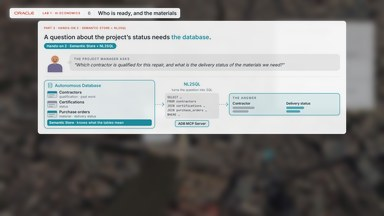
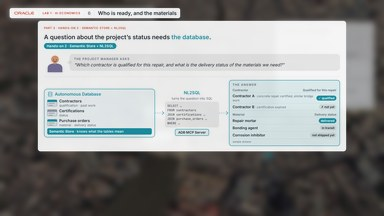
Lab 1 pages 6 and 7 print a sample answer instead of placeholder bars
Contractor qualification and material delivery status (page 6), the repair history at the
spot (page 7); sample rows with generic names, no prices or dates, marked "sample answer".

Changed region(s): [[0.0938, 0.3611, 0.9062, 0.7222]]

diff --git a/src/overlay/concepts/lab1/Lab1Data.tsx b/src/overlay/concepts/lab1/Lab1Data.tsx
@@ -351,6 +351,27 @@ export interface L1ContractorsProps {
 }
 
 /** 1.5 · The project manager asks the database: tables, the Semantic Store that knows what they mean, NL2SQL, ADB MCP Server, a placeholder answer table. */
+/** the answer the assistant prints for the project manager (sample rows: names and items stay generic) */
+const ANSWER: { head: string; col: string; rows: [string, string, boolean, string][] }[] = [
+  {
+    head: 'Contractor',
+    col: 'Qualified for this repair',
+    rows: [
+      ['Contractor A', '✓ qualified', true, 'concrete repair certified, similar bridge work'],
+      ['Contractor B', '✗ not yet', false, 'certification expired'],
+    ],
+  },
+  {
+    head: 'Material',
+    col: 'Delivery status',
+    rows: [
+      ['Repair mortar', 'delivered', true, ''],
+      ['Bonding agent', 'in transit', false, ''],
+      ['Corrosion inhibitor', 'not shipped yet', false, ''],
+    ],
+  },
+];
+
 export function L1Contractors({ kicker, message, notebook }: L1ContractorsProps) {
   return (
     <WidePanel kicker={kicker} message={message} notebook={notebook} testId="l1-contractors">
@@ -395,14 +416,25 @@ export function L1Contractors({ kicker, message, notebook }: L1ContractorsProps)
         <Arrow w={50} delay={3.4} />
         <motion.div data-answer="table" {...rise(3.4)} style={{ borderRadius: 14, border: '2px solid var(--teal)', background: TEAL_TINT, padding: '12px 16px' }}>
           <div style={{ fontSize: 15, fontWeight: 700, letterSpacing: 2, color: GREY, textTransform: 'uppercase', marginBottom: 8 }}>The answer</div>
-          <div style={{ display: 'grid', gridTemplateColumns: '1fr 1fr', gap: '6px 16px', fontSize: 17, fontWeight: 700, color: 'var(--ink)' }}>
-            <span>Contractor</span>
-            <span>Delivery status</span>
-            {[0, 1].flatMap((r) => [
-              <motion.span key={`a${r}`} data-bar initial={{ width: 0 }} animate={{ width: r ? 80 : 110 }} transition={{ delay: 3.8 + r * 0.2, duration: 0.5, ease: EASE }} style={{ height: 12, borderRadius: 6, background: G_MID, opacity: 0.7, alignSelf: 'center' }} />,
-              <motion.span key={`b${r}`} data-bar initial={{ width: 0 }} animate={{ width: r ? 70 : 90 }} transition={{ delay: 3.9 + r * 0.2, duration: 0.5, ease: EASE }} style={{ height: 12, borderRadius: 6, background: 'var(--teal)', opacity: 0.7, alignSelf: 'center' }} />,
-            ])}
-          </div>
+          {/* a sample answer (owner, 29 Oct: print an answer, not a skeleton); no real company names, prices or dates */}
+          {ANSWER.map((group, g) => (
+            <div key={group.head} style={{ marginTop: g ? 10 : 0 }}>
+              <div style={{ display: 'grid', gridTemplateColumns: '1fr auto', fontSize: 15, fontWeight: 700, color: 'var(--ink-dim)', borderBottom: '1px solid var(--line)', paddingBottom: 3 }}>
+                <span>{group.head}</span>
+                <span>{group.col}</span>
+              </div>
+              {group.rows.map(([name, status, ok, why], r) => (
+                <motion.div key={name} data-row={name} initial={{ opacity: 0, x: -8 }} animate={{ opacity: 1, x: 0 }} transition={{ delay: 3.8 + (g * 2 + r) * 0.18, duration: 0.45, ease: EASE }} style={{ display: 'grid', gridTemplateColumns: '1fr auto', alignItems: 'center', gap: 10, padding: '5px 0', borderBottom: '1px solid var(--line)' }}>
+                  <span style={{ fontSize: 18, color: 'var(--ink)' }}>
+                    <b>{name}</b>
+                    {why && <span style={{ fontSize: 15, color: 'var(--ink-dim)' }}> · {why}</span>}
+                  </span>
+                  <span style={{ fontSize: 15, fontWeight: 700, padding: '3px 10px', borderRadius: 999, color: ok ? '#fff' : 'var(--ink)', background: ok ? 'var(--teal)' : 'rgba(127,127,127,0.18)' }}>{status}</span>
+                </motion.div>
+              ))}
+            </div>
+          ))}
+          <div style={{ marginTop: 6, fontSize: 13, color: 'var(--ink-dim)' }}>sample answer</div>
         </motion.div>
       </div>
     </WidePanel>

diff --git a/src/overlay/concepts/lab1/Lab1Models.tsx b/src/overlay/concepts/lab1/Lab1Models.tsx
@@ -105,6 +105,9 @@ export const SITE_PHOTO_FOLLOW = 'What is the repair history at this location?';
 export const SITE_PHOTO_CAUTION = 'A photo alone cannot diagnose the cause, assess the load capacity or approve reopening the bridge. The responsible engineer must check.';
 export const SITE_PHOTO_NOTE = 'Every request still goes to the same model. The next exercise changes that.';
 
+/** the repair history the assistant prints for that spot (sample entries, oldest first) */
+const HISTORY = ['Patch repair of spalled concrete at this spot', 'Cracks sealed, surface coated', 'Last inspection: rust staining noted, repair recommended'];
+
 export function L1SitePhoto({ kicker, message, notebook }: Lab1Props) {
   return (
     <WidePanel kicker={kicker} message={message} notebook={notebook} testId="l1-site-photo">
@@ -157,12 +160,14 @@ export function L1SitePhoto({ kicker, message, notebook }: Lab1Props) {
               <LineIcon name="database" size={28} />
               FROM THE DATABASE
             </div>
-            {[0.82, 0.64, 0.74].map((w, i) => (
-              <div key={i} style={{ display: 'flex', alignItems: 'center', gap: 12, padding: '6px 0' }}>
-                <i style={{ width: 14, height: 14, borderRadius: '50%', background: 'var(--teal)', flex: 'none' }} />
-                <motion.i initial={{ width: 0 }} animate={{ width: `${w * 100}%` }} transition={{ delay: 3.4 + i * 0.2, duration: 0.6, ease: EASE }} style={{ height: 14, borderRadius: 7, background: GREY_FILL, display: 'block' }} />
-              </div>
+            {/* a sample history (owner, 29 Oct: print an answer, not a skeleton); no dates or names invented */}
+            {HISTORY.map((h, i) => (
+              <motion.div key={h} data-history-item={h} initial={{ opacity: 0, x: -8 }} animate={{ opacity: 1, x: 0 }} transition={{ delay: 3.4 + i * 0.2, duration: 0.5, ease: EASE }} style={{ display: 'flex', alignItems: 'center', gap: 12, padding: '5px 0', fontSize: 19, color: 'var(--ink)' }}>
+                <i style={{ width: 12, height: 12, borderRadius: '50%', background: 'var(--teal)', flex: 'none' }} />
+                {h}
+              </motion.div>
             ))}
+            <div style={{ fontSize: 13, color: 'var(--ink-dim)', marginTop: 4 }}>sample answer</div>
           </motion.div>
         </Window>
       </div>

diff --git a/tests/overlay/Lab1Data.test.tsx b/tests/overlay/Lab1Data.test.tsx
@@ -27,13 +27,15 @@ test('L1Specs: the engineer’s question, three steps, three sourced parts, the 
   noRed(c);
 });
 
-test('L1Contractors: tables, Semantic Store, NL2SQL, ADB MCP Server, placeholder answer, no invented specifics', () => {
+test('L1Contractors: tables, Semantic Store, NL2SQL, ADB MCP Server, a printed sample answer, no invented specifics', () => {
   const c = render(<L1Contractors kicker="k" message="m" />).container;
   expect(c.textContent).toContain('Which contractor is qualified for this repair, and what is the delivery status of the materials we need?');
   expect(attrs(c, 'data-table')).toEqual(['Contractors', 'Certifications', 'Purchase orders']);
   for (const w of ['Autonomous Database', 'Semantic Store', 'NL2SQL', 'ADB MCP Server', 'SELECT', 'JOIN certifications'])
     expect(c.textContent).toContain(w);
-  expect(c.querySelectorAll('[data-answer="table"] [data-bar]')).toHaveLength(4);
+  // owner, 29 Oct: an actual answer, not a skeleton: which contractor qualifies, and each material's delivery status
+  expect([...c.querySelectorAll('[data-answer="table"] [data-row]')].map((r) => r.getAttribute('data-row'))).toEqual(['Contractor A', 'Contractor B', 'Repair mortar', 'Bonding agent', 'Corrosion inhibitor']);
+  expect(c.querySelector('[data-answer="table"]')?.textContent).toContain('✓ qualified');
   expect(attrs(c, 'data-tag')).toEqual(['Hands-on 2 · Semantic Store + NL2SQL']);
   expect(c.textContent).not.toMatch(/\$|\d{4}|Kirkland|fictional/);
   noRed(c);
